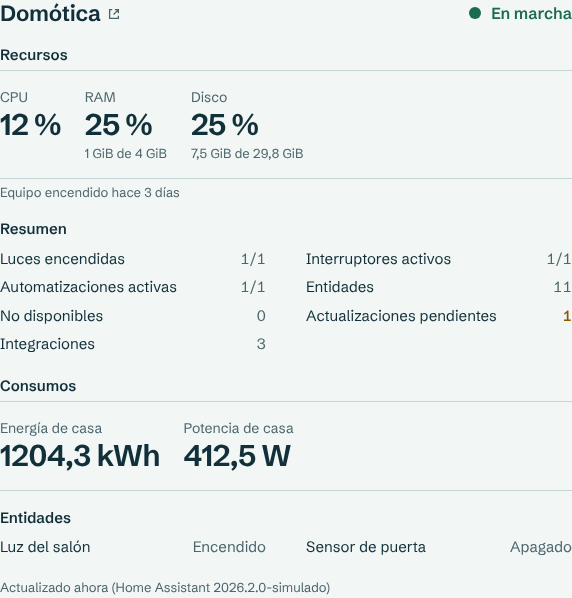
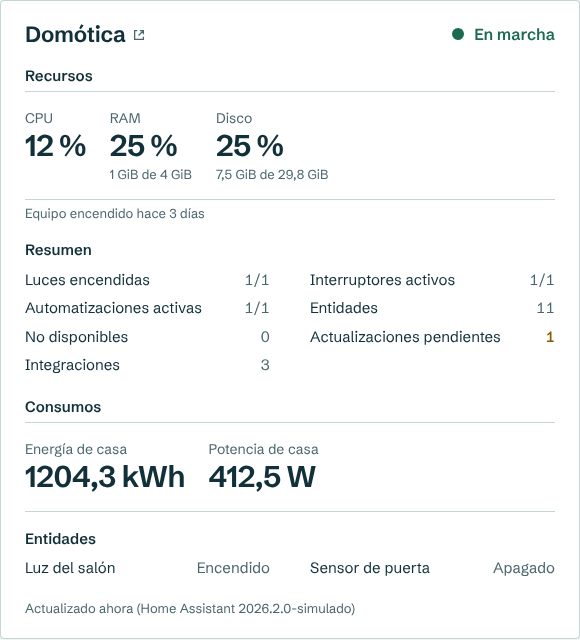
Añade un recuadro a los bloques del panel
Claude-Session: https://claude.ai/code/session_01THrc7V28UWz6CmghNkJMFe

diff --git a/web/src/styles.css b/web/src/styles.css
@@ -179,6 +179,7 @@ footer { padding: 1rem clamp(1rem, 4vw, 3rem); color: var(--ink-soft); font-size
 .editor-widget-actions { display: flex; flex-wrap: wrap; gap: 0 0.25rem; }
 .editor-widget-actions button { min-height: 2rem; padding: 0.125rem 0.375rem; background: none; color: var(--ink-soft); font-size: 0.8125rem; font-weight: 500; }
 .editor-widget-actions button:hover { color: var(--ink); text-decoration: underline; }
+.editor-widget-preview .service { padding: 0; background: none; border: 0; box-shadow: none; }
 .editor-widget-preview { flex: 1; min-height: 0; overflow: hidden; padding: 0.75rem; pointer-events: none; }
 .react-draggable-transparent-selection *::selection { all: inherit; }
 .react-grid-item.react-grid-placeholder { background: var(--beacon); opacity: 0.25; border-radius: 4px; }
@@ -253,13 +254,18 @@ dialog::backdrop { background: rgb(7 43 53 / 0.6); }
 .lookout-sky > :not(.tower) { position: relative; }
 .lookout-main { width: 100%; max-width: 92rem; margin-inline: auto; padding: clamp(1.25rem, 3vw, 2.5rem) clamp(1rem, 4vw, 3rem) 3rem; display: grid; gap: 1.5rem; align-content: start; }
 .live-lost { color: var(--warn); font-weight: 550; }
-.panel-grid { display: grid; grid-template-columns: repeat(12, minmax(0, 1fr)); grid-auto-rows: minmax(0.5rem, auto); column-gap: 2.5rem; }
-.panel-grid > div { min-width: 0; padding-bottom: 2.5rem; }
+.panel-grid { display: grid; grid-template-columns: repeat(12, minmax(0, 1fr)); grid-auto-rows: minmax(0.5rem, auto); column-gap: 1.5rem; }
+.panel-grid > div { display: flex; min-width: 0; padding-bottom: 1.5rem; }
 .page-tabs { display: flex; flex-wrap: wrap; gap: 0.25rem 1.25rem; border-bottom: 1px solid var(--line); }
 .page-tab { display: inline-flex; align-items: center; min-height: 2.75rem; padding: 0.25rem 0.125rem; color: var(--ink-soft); background: none; border: 0; border-bottom: 3px solid transparent; border-radius: 0; font-weight: 500; text-decoration: none; }
 .page-tab:hover { color: var(--ink); }
 .page-tab.current { color: var(--ink); border-bottom-color: var(--beacon); font-weight: 600; }
-.service { display: grid; gap: 1rem; min-width: 0; }
+.service {
+  display: grid; flex: 1; align-content: start; gap: 1rem; min-width: 0;
+  padding: 1.25rem 1.5rem; background: var(--surface);
+  border: 1px solid var(--line); border-radius: 4px;
+  box-shadow: 0 1px 3px rgb(7 43 53 / 0.08);
+}
 .service-head { display: flex; flex-wrap: wrap; align-items: baseline; justify-content: space-between; gap: 0.25rem 1rem; }
 .service-link { display: inline-flex; align-items: center; gap: 0.375rem; color: inherit; text-decoration: none; }
 .service-link:hover { text-decoration: underline; }

diff --git a/docs/proyecto/03-diseno-funcional.md b/docs/proyecto/03-diseno-funcional.md
@@ -52,6 +52,7 @@ Mientras no exista un administrador, todas las rutas muestran el asistente de pr
 
 **Con servicios:** cada página muestra sus bloques en la posición elegida en el editor. Con más de una página aparecen pestañas.
 
+- **Recuadro:** cada bloque tiene fondo, borde y una sombra ligera, para distinguirlo de los demás. Los bloques de una misma fila igualan su altura.
 - **Altura:** un bloque crece si su contenido lo necesita, sin solaparse.
 - **Pantallas de menos de 900 px:** los bloques se apilan en una columna, de arriba abajo y de izquierda a derecha.
 - **Página vacía:** indica que no tiene servicios.

diff --git a/docs/proyecto/06-estado-y-cambios.md b/docs/proyecto/06-estado-y-cambios.md
@@ -20,6 +20,7 @@
 - Varias páginas, con pestañas en el panel.
 - Tema claro, oscuro o del sistema, y color de acento.
 - Inicio de sesión opcional para ver el panel.
+- Recuadro en cada bloque del panel, a petición del cliente.
 - Cambio de contraseña desde la web y recuperación con `talaia reset-password`.
 
 **Cambiado:**
